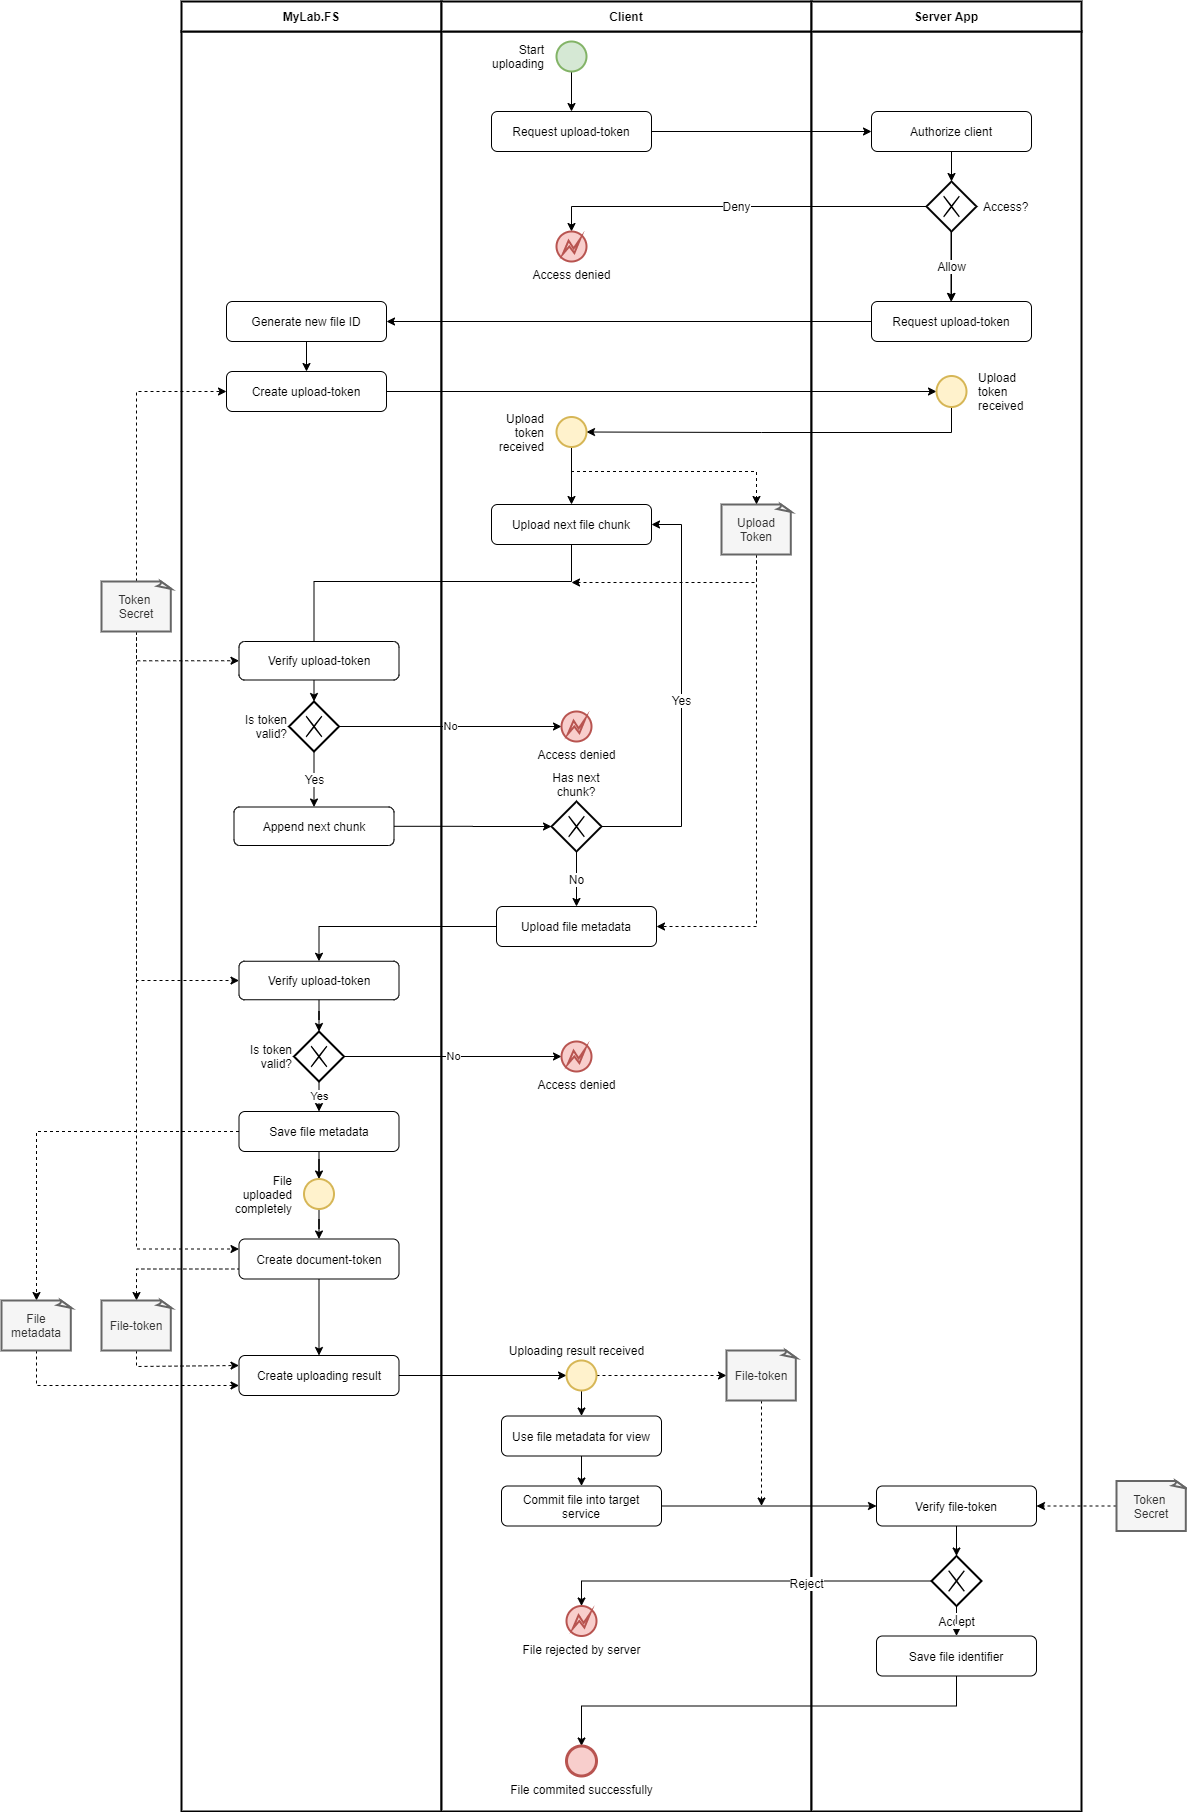
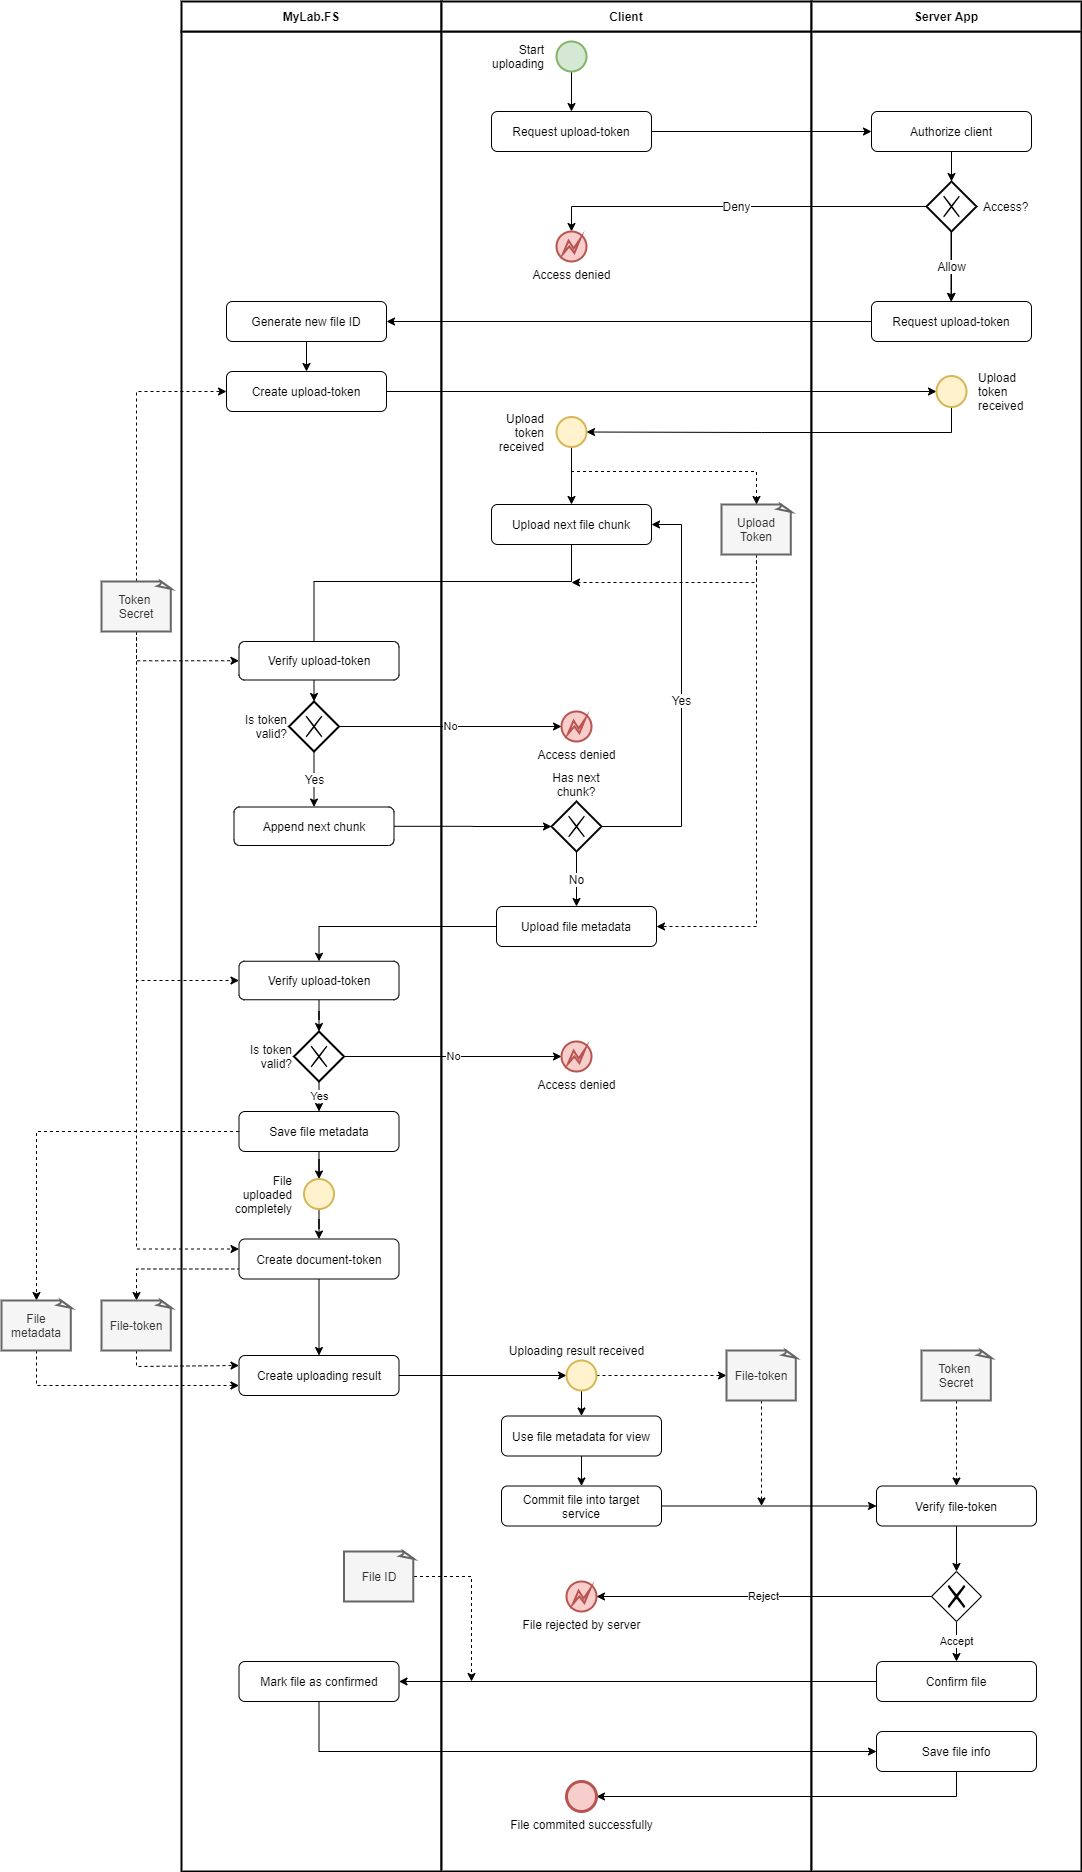
Introduce file confirmation

diff --git a/src/MyLab.FileStorage/Services/DownloadService.cs b/src/MyLab.FileStorage/Services/DownloadService.cs
@@ -18,8 +18,10 @@ class DownloadService : IDownloadService
     }
     public string CreateDownloadToken(Guid fileId)
     {
-        // FileNotFoundException if file not found
-        _storageOperator.GetContentLength(fileId);
+        // if file does not exists or is not confirmed
+        if (!_storageOperator.IsConfirmedFileExists(fileId))
+            throw new FileNotFoundException()
+                .AndFactIs("file-id", fileId);
 
         return new TransferToken(fileId)
             .Serialize(_options.TransferTokenSecret!, TimeSpan.FromSeconds(_options.DownloadTokenTtlSec));
@@ -27,7 +29,11 @@ class DownloadService : IDownloadService
 
     public async Task<(RangeStreamReader.ReadRange[] FileReads, StoredFileMetadataDto? Metadata)> ReadContentAsync(Guid fileId, RangeHeaderValue rangeHeader)
     {
-        // FileNotFoundException if file not found
+        // if file does not exists or is not confirmed
+        if (!_storageOperator.IsConfirmedFileExists(fileId))
+            throw new FileNotFoundException()
+                .AndFactIs("file-id", fileId);
+
         var fileLen = _storageOperator.GetContentLength(fileId);
 
         if (rangeHeader.GetTotalLength(fileLen) / 1024 > _options.DownloadChunkLimitKiB)
@@ -46,7 +52,11 @@ class DownloadService : IDownloadService
 
     public async Task<(byte[] Content, StoredFileMetadataDto? Metadata)> ReadContentAsync(Guid fileId)
     {
-        // FileNotFoundException if file not found
+        // if file does not exists or is not confirmed
+        if (!_storageOperator.IsConfirmedFileExists(fileId))
+            throw new FileNotFoundException()
+                .AndFactIs("file-id", fileId);
+
         var fileLen = _storageOperator.GetContentLength(fileId);
 
         if (fileLen / 1024 > _options.DownloadChunkLimitKiB)
@@ -63,7 +73,7 @@ class DownloadService : IDownloadService
         return (buff, metadata);
     }
 
-    private Stream? GetFileStream(Guid fileId)
+    private Stream GetFileStream(Guid fileId)
     {
         var fileStream = _storageOperator.OpenContentRead(fileId);
 

diff --git a/src/UnitTests/FileIdToNameConverterBehavior.cs b/src/UnitTests/FileIdToNameConverterBehavior.cs
@@ -38,10 +38,10 @@ public class FileIdToNameConverterBehavior
 
 
         //Act
-        var dir = _converter.ToContentFile(_fileId);
+        var fn = _converter.ToContentFile(_fileId);
 
         //Assert
-        Assert.Equal("/var/fs/data/afd6/7969/1989/4dc1/8348/726a/ce4b/d4f6/content.bin", dir);
+        Assert.Equal("/var/fs/data/afd6/7969/1989/4dc1/8348/726a/ce4b/d4f6/content.bin", fn);
     }
 
     [Fact]
@@ -51,10 +51,10 @@ public class FileIdToNameConverterBehavior
 
 
         //Act
-        var dir = _converter.ToMetadataFile(_fileId);
+        var fn = _converter.ToMetadataFile(_fileId);
 
         //Assert
-        Assert.Equal("/var/fs/data/afd6/7969/1989/4dc1/8348/726a/ce4b/d4f6/metadata.json", dir);
+        Assert.Equal("/var/fs/data/afd6/7969/1989/4dc1/8348/726a/ce4b/d4f6/metadata.json", fn);
     }
 
     [Fact]
@@ -64,9 +64,22 @@ public class FileIdToNameConverterBehavior
 
 
         //Act
-        var dir = _converter.ToHashCtxFile(_fileId);
+        var fn = _converter.ToHashCtxFile(_fileId);
 
         //Assert
-        Assert.Equal("/var/fs/data/afd6/7969/1989/4dc1/8348/726a/ce4b/d4f6/hash-ctx.bin", dir);
+        Assert.Equal("/var/fs/data/afd6/7969/1989/4dc1/8348/726a/ce4b/d4f6/hash-ctx.bin", fn);
+    }
+
+    [Fact]
+    public void ShouldProvideConfirmFilename()
+    {
+        //Arrange
+
+
+        //Act
+        var fn = _converter.ToConfirmFile(_fileId);
+
+        //Assert
+        Assert.Equal("/var/fs/data/afd6/7969/1989/4dc1/8348/726a/ce4b/d4f6/confirmed.dt", fn);
     }
 }

diff --git a/src/MyLab.FileStorage/Controllers/FilesController.cs b/src/MyLab.FileStorage/Controllers/FilesController.cs
@@ -38,5 +38,17 @@ namespace MyLab.FileStorage.Controllers
 
             return NoContent();
         }
+
+        [HttpPost("confirmation")]
+        [ErrorToResponse(typeof(FileNotFoundException), HttpStatusCode.NotFound, "File not found")]
+        public async Task<IActionResult> ConfirmFile([FromRoute(Name = "file_id")] string fileId)
+        {
+            if (!Guid.TryParse(fileId, out var guidId))
+                return BadRequest("Bad file id");
+
+            await _storageOperator.WriteConfirmedFile(guidId, DateTime.Now);
+
+            return NoContent();
+        }
     }
 }

diff --git a/src/MyLab.FileStorage/Services/FileStorageOperator.cs b/src/MyLab.FileStorage/Services/FileStorageOperator.cs
@@ -118,4 +118,18 @@ class FileStorageOperator : IStorageOperator
         
         return fi.Length;
     }
+
+    public Task WriteConfirmedFile(Guid fileId, DateTime datetime)
+    {
+        var filename = _fileIdConverter.ToConfirmFile(fileId);
+
+        return File.WriteAllTextAsync(filename, datetime.ToString("u"));
+    }
+
+    public bool IsConfirmedFileExists(Guid fileId)
+    {
+        var filename = _fileIdConverter.ToConfirmFile(fileId);
+
+        return File.Exists(filename);
+    }
 }

diff --git a/src/FuncTests/DownloadingBehavior.cs b/src/FuncTests/DownloadingBehavior.cs
@@ -41,6 +41,8 @@ public class DownloadingBehavior : IClassFixture<TestApi<Program, IFsDownloadApi
             .Returns(_fileStream);
         storageOpMock.Setup(op => op.ReadMetadataAsync(It.Is<Guid>(id => id == _fileId)))
             .ReturnsAsync(fileMetadata);
+        storageOpMock.Setup(op => op.IsConfirmedFileExists(It.Is<Guid>(id => id == _fileId)))
+            .Returns(true);
 
         _api = api.StartWithProxy(srv => srv
             .AddSingleton(storageOpMock.Object)

diff --git a/src/MyLab.FileStorage/Tools/FileIdToNameConverter.cs b/src/MyLab.FileStorage/Tools/FileIdToNameConverter.cs
@@ -19,6 +19,7 @@
         public string ToContentFile(Guid fileId) => ToFile(fileId, "content.bin");
         public string ToMetadataFile(Guid fileId) => ToFile(fileId, "metadata.json");
         public string ToHashCtxFile(Guid fileId) => ToFile(fileId, "hash-ctx.bin");
+        public string ToConfirmFile(Guid fileId) => ToFile(fileId, "confirmed.dt");
 
         string ToFile(Guid fileId, string filename)
         {

diff --git a/src/MyLab.FileStorage.Client/IFsFilesApiV1.cs b/src/MyLab.FileStorage.Client/IFsFilesApiV1.cs
@@ -24,4 +24,11 @@ public interface IFsFilesApiV1
     [Delete]
     [ExpectedCode(HttpStatusCode.NoContent)]
     Task DeleteFileAsync([Path("file_id")] Guid fileId);
+
+    /// <summary>
+    /// Confirm file after uploading
+    /// </summary>
+    [Post("confirmation")]
+    [ExpectedCode(HttpStatusCode.NoContent)]
+    Task ConfirmFileAsync([Path("file_id")] Guid fileId);
 }

diff --git a/src/MyLab.FileStorage/Services/IStorageOperator.cs b/src/MyLab.FileStorage/Services/IStorageOperator.cs
@@ -24,4 +24,8 @@ public interface IStorageOperator
     Task DeleteFile(Guid fileId);
 
     long GetContentLength(Guid fileId);
+
+    Task WriteConfirmedFile(Guid fileId, DateTime datetime);
+
+    bool IsConfirmedFileExists(Guid fileId);
 }

diff --git a/README.md b/README.md
@@ -58,7 +58,10 @@
 * запрашивает токен загрузки;
 * отправляет файл частями, прикладывая токен загрузки;
 * завершает загрузку, указав контрольную сумму, метаданные и приложив токен загрузки;
-* получает метаданные загруженного файла и подписанный токен файла.
+* получает метаданные загруженного файла и подписанный токен файла;
+* при необходимости проверяет полученные данные;
+* подтверждает, что файл получен целевым сервисом;
+* применяет данные файла (например, сохраняет идентификатор файла).
 
 ![](./doc/diagramms/mylab-fs-trusted-uploading.png)
 
@@ -66,7 +69,7 @@
 
 Для загрузки файла клиентом, серверное приложение должно запросить у *файлового хранилища* токен загрузки и передать его этому авторизованному клиенту. Далее клиент загружает файл напрямую в *файловое хранилище*, прикладывая выданный токен. Таким образом право на загрузку файла выдаёт серверное приложение в соответствии со своими бизнес-правилами. Токен загрузки - `JWT` токен с `HMAC-SHA256` подписью.
 
-В результате загрузки файла, клиент получает токен файла - подписанные данные о файле. Токен файла - `JWT` токен с `HMAC-SHA256` подписью. Получив этот токен от клиента, серверное приложение проверяет подпись токена, время его действия, а так же другие реквизиты в соответствии со своим бизнес-правилами. Например, лимит по размеру. 
+В результате загрузки файла, клиент получает токен файла - подписанные данные о файле. Токен файла - `JWT` токен с `HMAC-SHA256` подписью. Получив этот токен от клиента, серверное приложение проверяет подпись токена, время его действия, а так же другие реквизиты в соответствии со своим бизнес-правилами. Например, лимит по размеру. В завершении приложение подтверждает в *файловом хранилище* получение файла.
 
 Для проверки подписи токена файла приложение должно разделять секрет с *файловым хранилищем*, которым оно подписывает токены документов. После проверки, серверное приложение применяет полученные данные в соответствии со своим бизнес-процессом.
 
